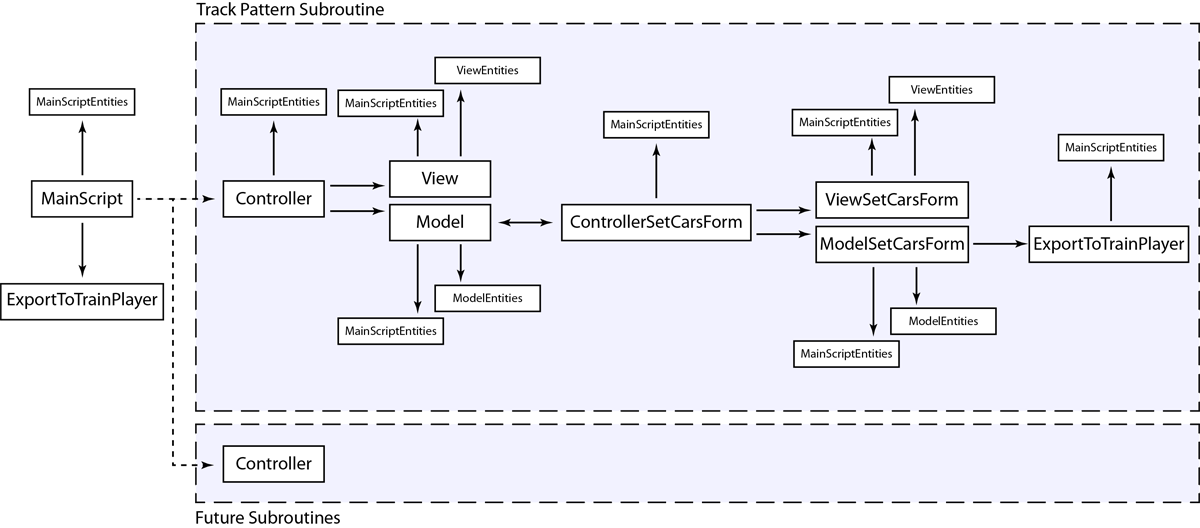
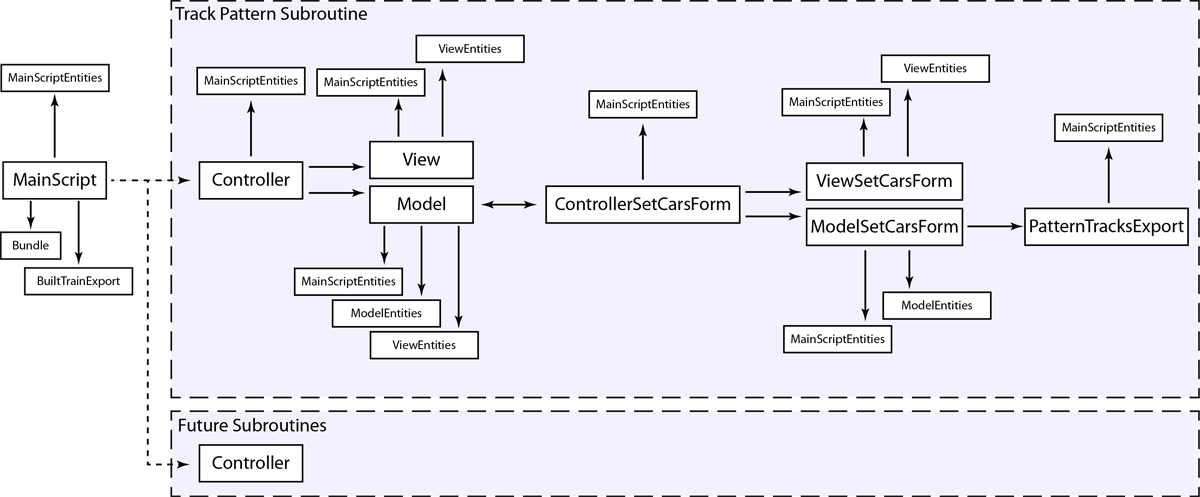
Test Plugin

diff --git a/psSupport/psHelp.html b/psSupport/psHelp.html
@@ -52,9 +52,13 @@
 <p>The following chart shows the code structure of this plugin.</P>
 <img src="FlowChart1.png" alt="<Flow Chart Image>">
 
-<h2>Pattern Scripts Window</h2>
-<p>OperationsPatternScripts.MainScript.ViewPsWindow.makeWindow()</p>
-<img src="PatternScriptsWindow1.png" alt="<Pattern Scripts Window Image>">
+<h2>Plugin Layout</h2>
+<p>OperationsPatternScripts.MainScript.View.makePatternScriptsWindow()</p>
+<img src="PluginLayout1.png" alt="<Plugin Layout Image>">
+
+<h2>Pattern Scripts Subroutine</h2>
+<p>OperationsPatternScripts.PatternTracksSubroutine.Controller.makeSubroutinePanel()</p>
+<img src="PatternScriptsSubroutine1.png" alt="<Pattern Scripts Window Image>">
 
 <h2>Pattern Report for Track Window</h2>
 <p>OperationsPatternScripts.ControllerSetCarsForm.CreatePatternReportGui.makeFrame()</p>
@@ -71,8 +75,8 @@
 <p>Each JMRI profile gets its own configuration file, which is a JSON file. It is found in the operations folder, and is used to provide custom settings for each profile and record user inputs.
 <br><font color="blue">The description of each element is in blue</font>
 <br><font color="green">User editable keys are described in green</font>
-<br>This plugin is not able to catch every type of mistakes made when editing the PatternConfig.json file, and in some cases the plugin will crash.
- If that happens, delete the file and the plugin will create a new one to start over with.
+<br>This plugin is not able to catch every type of mistake that can be made when editing the PatternConfig.json file, and in some cases the plugin will crash.
+ If that happens, delete the PatternConfig.json file and the plugin will create a new one to start over with.
  In other cases, if a mistake is made editing the PatternConfig.json file, the plugin will replace it with the default file, and the user will have to start over.</p>
 <h3>Editor Matrix</h3>
 <pre>

diff --git a/psEntities/PatternScriptEntities.py b/psEntities/PatternScriptEntities.py
@@ -196,7 +196,7 @@ def validateFileDestinationDirestories():
 
     return
 
-def validateConfigFile(currentRootDir):
+def validateConfigFileVersion(currentRootDir):
     '''Checks that the config file is the current version'''
 
     configFilePath = currentRootDir + '\psEntities\PatternConfig.json'
@@ -204,11 +204,12 @@ def validateConfigFile(currentRootDir):
         validPatternConfig = jsonLoads(validConfigFileLoc.read())
 
     userPatternConfig = getConfigFile()
+
     if validPatternConfig['CP']['RV'] == userPatternConfig['CP']['RV']:
-        psLog.info('The PatternConfig.JSON file is the correct version')
+        psLog.info('The PatternConfig.json file is the correct version')
         return True
     else:
-        psLog.warning('PatternConfig.JSON version mismatch')
+        psLog.warning('PatternConfig.json version mismatch')
         return False
 
 def backupConfigFile():
@@ -219,16 +220,21 @@ def backupConfigFile():
 
     return
 
+def mergeConfigFiles():
+    '''Implemented in v3'''
+    return
+    
 def readConfigFile(subConfig=None):
 
     try:
         getConfigFile()
+        backupConfigFile()
     except ValueError:
         writeNewConfigFile()
-        psLog.warning('Defective PatternConfig.JSON found, new file written')
+        psLog.warning('Defective PatternConfig.json found, new file written')
     except IOError:
         writeNewConfigFile()
-        psLog.warning('No PatternConfig.JSON found, new file written')
+        psLog.warning('No PatternConfig.json found, new file written')
 
     if not subConfig:
         return getConfigFile()

diff --git a/MainScript.py b/MainScript.py
@@ -125,20 +125,14 @@ class Model:
         return
 
     def validatePatternConfig(self):
+        '''To be reworked in v3'''
 
         PatternScriptEntities.readConfigFile()
-        if not PatternScriptEntities.validateConfigFile(SCRIPT_ROOT):
-            PatternScriptEntities.backupConfigFile()
-            self.psLog.warning('PatternConfig.json.bak file written')
+        if not PatternScriptEntities.validateConfigFileVersion(SCRIPT_ROOT):
+            PatternScriptEntities.mergeConfigFiles()
+            self.psLog.info('Previous PatternConfig.json merged with new')
             PatternScriptEntities.writeNewConfigFile()
-            self.psLog.warning('New PatternConfig.JSON file created for this profile')
-
-        return
-
-    def runValidations(self):
-
-        PatternScriptEntities.validateFileDestinationDirestories()
-        PatternScriptEntities.validateStubFile(SCRIPT_ROOT)
+            self.psLog.warning('New PatternConfig.json file created for this profile')
 
         return
 
@@ -303,8 +297,7 @@ class Controller(jmri.jmrit.automat.AbstractAutomaton):
         self.logger.initialLogMessage(self.psLog)
 
         self.model.validatePatternConfig()
-        # PatternScriptEntities.ENCODING = PatternScriptEntities.readConfigFile()['CP']['SE']
-        self.model.runValidations()
+        PatternScriptEntities.validateFileDestinationDirestories()
         PatternScriptEntities.validateStubFile(SCRIPT_ROOT)
         self.addTrainPlayerListeners()
         if PatternScriptEntities.readConfigFile()['CP']['AP']:

diff --git a/TrainPlayerSubroutine/BuiltTrainExport.py b/TrainPlayerSubroutine/BuiltTrainExport.py
@@ -122,6 +122,8 @@ if __name__ == "__builtin__":
     from psEntities import PatternScriptEntities
     from TrainPlayerSubroutine import Model
 
+    PatternScriptEntities.ENCODING = 'utf-8'
+
     train = StandAlone().findNewestTrain()
 
     if train:
